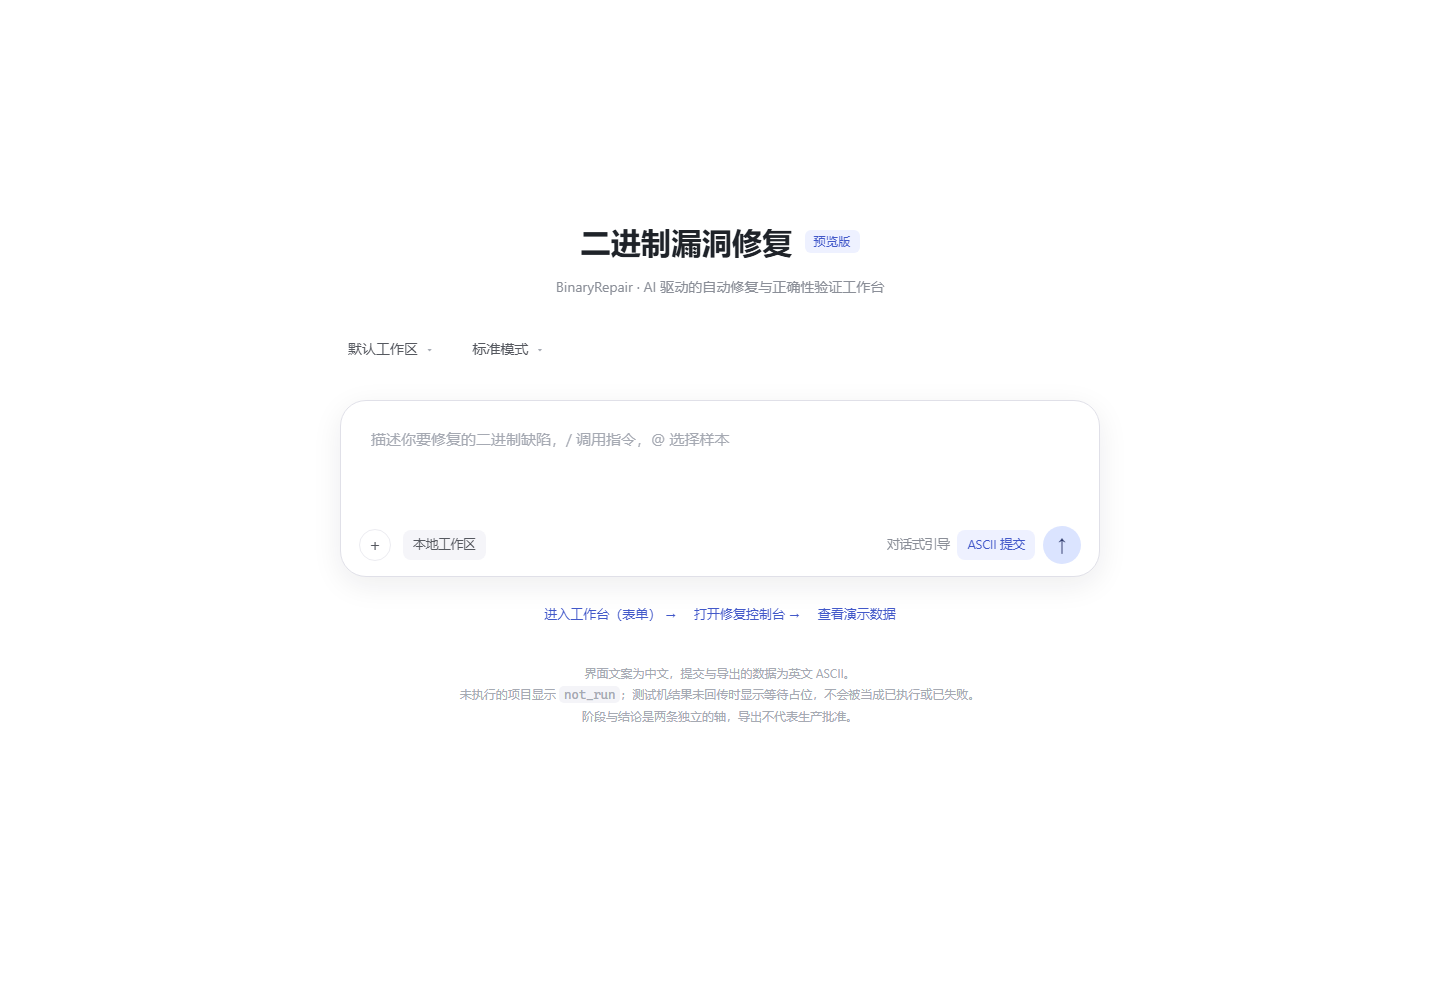
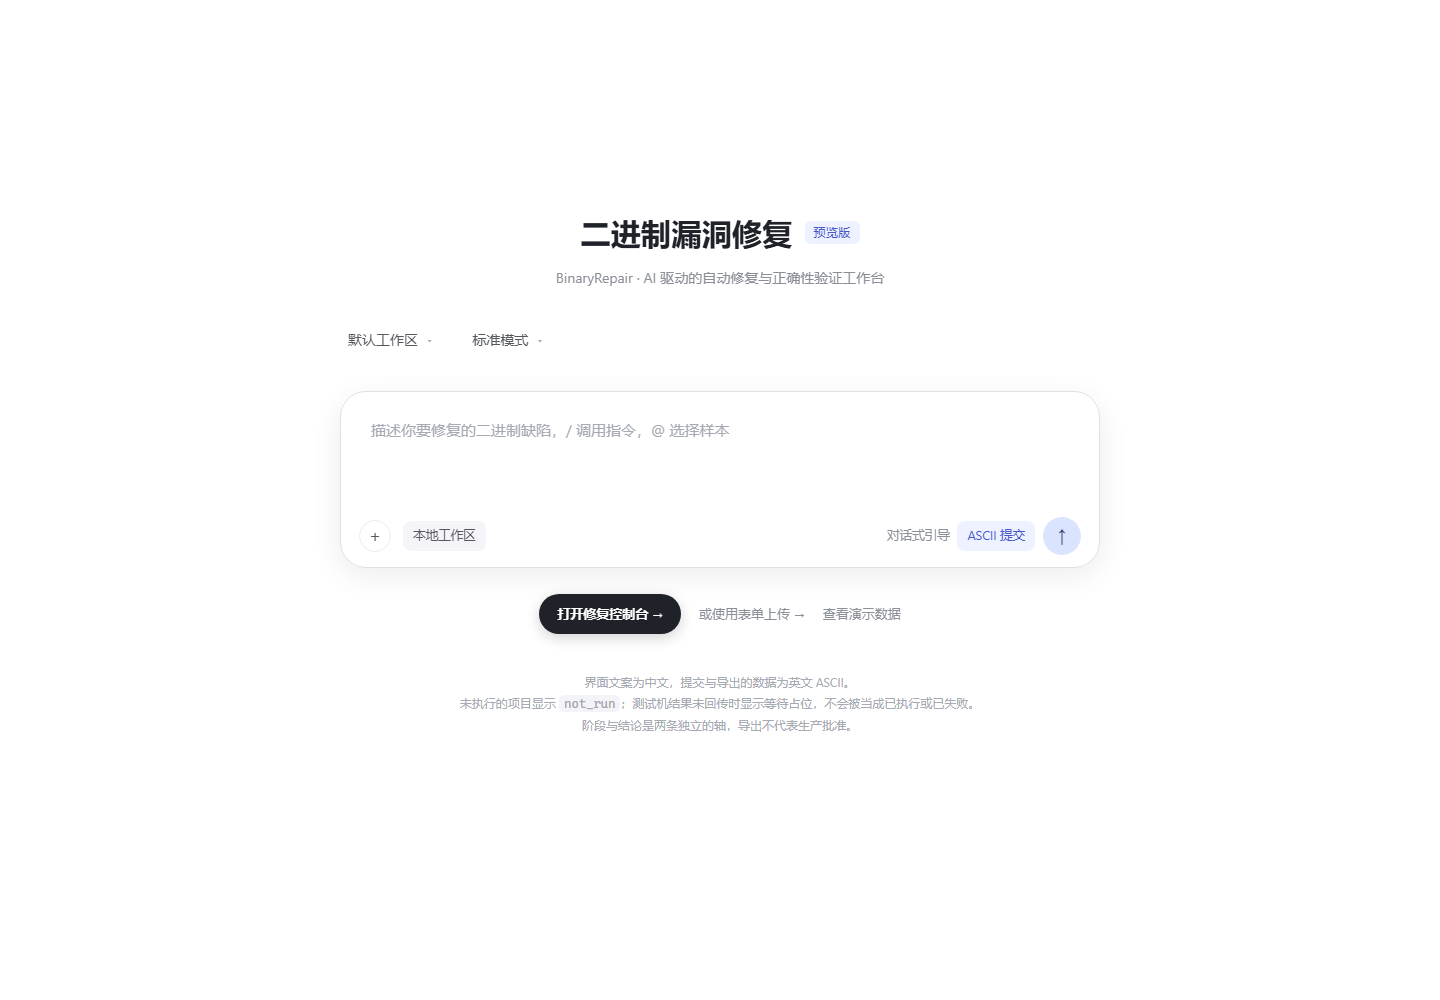
feat(gui): make the console the primary landing entry
T7.8: the home page now leads with a primary button to /agent and demotes the form to a text link, while landing-cta keeps pointing at /jobs/new so the existing journey test still holds. Add tests/test_agent_honesty.py to pin the evidence claims on top of the shell tests: an empty obligation table is not a pass, a pending receipt never becomes not_run, the console has no verdict write path, and round-trip preservation never earns repair credit.

diff --git a/app/static/css/ds.css b/app/static/css/ds.css
@@ -397,8 +397,29 @@ h1, h2, h3, h4 { font-weight: 600; line-height: 1.4; }
   flex-wrap: wrap;
   gap: 18px;
   justify-content: center;
+  align-items: center;
   font-size: 13px;
   animation: ds-rise 0.5s ease 0.2s both;
+}
+.ds-home-links a { color: var(--ds-muted); }
+.ds-home-links a:hover { color: var(--ds-text); }
+.ds-home-links .ds-link-primary {
+  display: inline-flex;
+  align-items: center;
+  gap: 6px;
+  padding: 9px 18px;
+  border-radius: 999px;
+  background: var(--ds-text);
+  color: #fff;
+  font-weight: 600;
+  text-decoration: none;
+  box-shadow: 0 4px 14px rgba(20, 18, 15, .18);
+  transition: transform .12s ease, box-shadow .12s ease;
+}
+.ds-home-links .ds-link-primary:hover {
+  color: #fff;
+  transform: translateY(-1px);
+  box-shadow: 0 8px 20px rgba(20, 18, 15, .22);
 }
 .ds-home-note { color: var(--ds-faint); font-size: 12px; text-align: center; }
 

diff --git a/app/templates/landing.html b/app/templates/landing.html
@@ -51,8 +51,8 @@
     </form>
 
     <div class="ds-home-links">
-      <a href="/jobs/new" data-testid="landing-cta">进入工作台（表单） →</a>
-      <a href="/agent" data-testid="landing-agent-cta">打开修复控制台 →</a>
+      <a class="ds-link-primary" href="/agent" data-testid="landing-agent-cta" data-primary="1">打开修复控制台 →</a>
+      <a href="/jobs/new" data-testid="landing-cta">或使用表单上传 →</a>
       <a href="/agent?fixture=1">查看演示数据</a>
     </div>
 

diff --git a/tests/test_agent_honesty.py b/tests/test_agent_honesty.py
@@ -1,0 +1,121 @@
+"""Honesty guarantees for the M2 console and report.
+
+Incremental to ``tests/test_agent_console.py``: that file pins the shell and the
+M2 boundary; this file pins the claims the UI makes about evidence itself.
+
+The rule under test: the console renders what the acceptance engine produced and
+never upgrades it. An empty obligation table is not a pass, a pending receipt is
+not ``not_run``, round-trip preservation is not repair evidence, and an
+unreported outcome is not rewritten.
+"""
+
+from pathlib import Path
+
+from fastapi.testclient import TestClient
+
+from app.evidence_domains import evidence_domain
+from app.main import CSRF_TOKEN, SESSION_TOKEN, app
+
+BASE_DIR = Path(__file__).resolve().parents[1]
+AGENT_JS = (BASE_DIR / "app" / "static" / "js" / "agent.js").read_text(encoding="utf-8")
+REPORT_HTML = (BASE_DIR / "app" / "templates" / "report.html").read_text(encoding="utf-8")
+EVIDENCE_HTML = (BASE_DIR / "app" / "templates" / "evidence.html").read_text(encoding="utf-8")
+
+client = TestClient(app, base_url="http://127.0.0.1")
+assert client.get("/?token=" + SESSION_TOKEN).status_code == 200
+
+
+def _create_job() -> str:
+    created = client.post(
+        "/jobs",
+        data={
+            "defect": "strcpy in stack_buf does not check length; overlong input writes out of bounds",
+            "valid_tests": "valid: hello\nboundary: 8 bytes",
+            "environment": "Ubuntu x86-64 VM (test: execution disabled)",
+            "valid_domain": "Input length 0-64 bytes",
+            "forbidden": "Out-of-bounds write to the target buffer",
+            "invalid_outcome": "Return error code 1 without out-of-bounds access",
+            "assumptions": "Single process",
+            "csrf": CSRF_TOKEN,
+        },
+        files={"binary": ("sample.bin", b"\x7fELF demo bytes", "application/octet-stream")},
+        follow_redirects=False,
+    )
+    assert created.status_code == 303
+    return created.headers["location"].rstrip("/").rsplit("/", 1)[-1]
+
+
+def test_empty_obligation_table_is_not_a_pass():
+    """No obligations means "the backend did not provide them", never "passed"."""
+    empty_branch = AGENT_JS.split("if (!view.obligations.length)", 1)
+    assert len(empty_branch) == 2, "the empty-table branch must exist"
+    head, tail = empty_branch[0], empty_branch[1][:400]
+    assert "后端未提供义务结果" in tail
+    for banned in ("通过", "满足", "已修复"):
+        assert banned not in tail, banned
+
+
+def test_pending_receipt_never_renders_not_run():
+    # The diagnostics table bails out while pending, and the failure card is
+    # gated on a received result, so neither can invent a not_run row.
+    assert "if (view.receiptPending) return;" in AGENT_JS
+    assert "if (failed && !view.receiptPending)" in AGENT_JS
+    assert "未回传：只显示占位，不渲染 not_run" in AGENT_JS
+    # The placeholder is what the user sees, not an obligation result.
+    assert 'show("agent-receipt-placeholder", view.receiptPending)' in AGENT_JS
+
+
+def test_console_only_writes_through_the_create_job_form():
+    """The console has no approve/start/verdict write path."""
+    assert AGENT_JS.count('xhr.open("POST"') == 1
+    assert 'xhr.open("POST", "/jobs")' in AGENT_JS
+    for banned in ('"/approve"', '"/start"', '"/api/verdict', '"/attempts/retry"'):
+        assert banned not in AGENT_JS, banned
+
+
+def test_round_trip_is_not_repair_credit():
+    round_trip = evidence_domain("round_trip")
+    repaired = evidence_domain("repaired_behaviour")
+    assert round_trip["repair_credit"] is False
+    assert repaired["repair_credit"] is True
+    # Both are binary-level execution, so the level alone must not imply credit.
+    assert round_trip["level"] == repaired["level"] == "binary"
+
+
+def test_round_trip_label_from_producer_resolves_to_the_same_domain():
+    for label in ("Round-trip behaviour", "round trip behavior", "round_trip"):
+        domain = evidence_domain(label)
+        assert domain["label_en"] == "Round-trip behaviour", label
+        assert domain["repair_credit"] is False, label
+
+
+def test_unknown_kind_stays_unclassified():
+    domain = evidence_domain("totally-new-check")
+    assert domain["level"] == "unknown"
+    assert domain["repair_credit"] is False
+    assert domain["label_zh"] == "未分类证据"
+
+
+def test_evidence_page_labels_every_row_with_its_level():
+    job_id = _create_job()
+    page = client.get(f"/jobs/{job_id}/evidence")
+    assert page.status_code == 200
+    assert "证据域" in page.text
+    rows = [
+        line for line in page.text.splitlines()
+        if "data-evidence-level=" in line
+    ]
+    assert rows, "the evidence table must mark each row with its level"
+    for line in rows:
+        assert 'data-evidence-level="unknown"' not in line, line
+
+
+def test_report_does_not_rewrite_missing_outcome():
+    assert "none (not reported by the controller)" in REPORT_HTML
+    assert 'or "not_run"' not in REPORT_HTML
+    assert "an empty table is not a pass" in REPORT_HTML
+
+
+def test_evidence_template_marks_unknown_separately():
+    assert "data-evidence-level=\"{{ domain.level }}\"" in EVIDENCE_HTML
+    assert "未分类证据" in EVIDENCE_HTML or "domain.label_zh" in EVIDENCE_HTML

diff --git a/tests/test_agent_console.py b/tests/test_agent_console.py
@@ -150,6 +150,11 @@ def test_landing_offers_console_without_breaking_original_cta():
     assert 'href="/jobs/new"' in response.text
     assert 'data-testid="landing-agent-cta"' in response.text
     assert 'href="/agent"' in response.text
+    # T7.8: the console is the primary entry; the form is the fallback.
+    assert 'data-primary="1"' in response.text
+    assert response.text.index('data-testid="landing-agent-cta"') < response.text.index(
+        'data-testid="landing-cta"'
+    )
 
 
 def test_existing_setup_and_job_pages_still_work():
